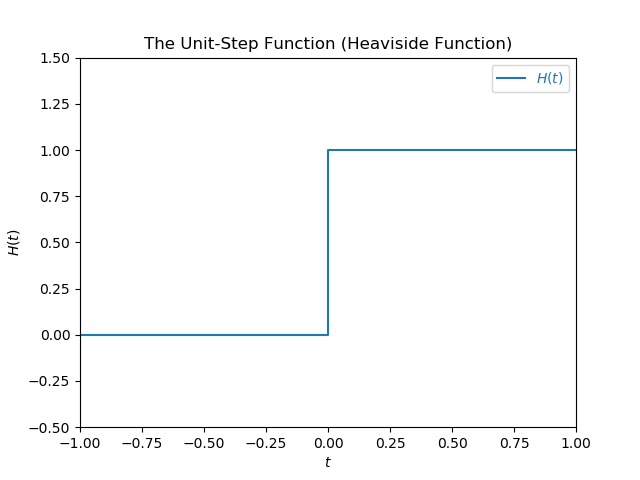
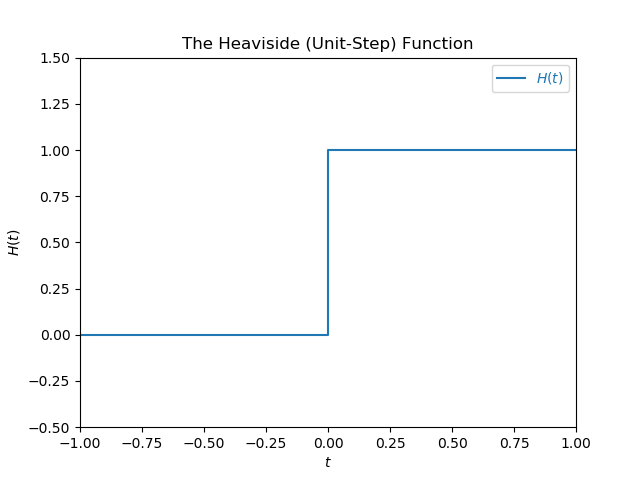
Added complex exponential graphs to the 'Basic Signal Types' page.

Changed region(s): [[0.2188, 0.0625, 0.8125, 0.125]]

diff --git a/content/programming/signal-processing/basic-signal-types/main.py b/content/programming/signal-processing/basic-signal-types/main.py
@@ -5,6 +5,7 @@ import numpy as np
 def main():
     plot_sinusoidal()
     plot_exponential()
+    plot_complex_exponential()
     plot_unit_step()
 
 def plot_sinusoidal():
@@ -80,6 +81,66 @@ def plot_exponential():
     plt.title("Examples of Basic Real Exponential Signals")
     plt.savefig('examples-of-basic-real-exponential-signals.png')
 
+def plot_complex_exponential():
+
+    x_min = 0.0
+    x_max = 10.0
+    y_min = -10.0
+    y_max = 10.0
+
+    x = np.linspace(x_min, x_max, 500)
+
+    sigma = 0.2
+    omega = 2*np.pi
+    theta = 0.0
+    y_growing_real = 1*np.exp(sigma*x)*np.cos(omega*x + theta) 
+    y_growing_env_top = np.exp(sigma*x)
+    y_growing_env_bottom = -np.exp(sigma*x)
+    fig, ax = plt.subplots()
+
+    ax.plot(x, y_growing_real, label="$Re\{f(t)\} = |A|e^{\sigma t} \cos(\omega t + \\theta)$", color='C0')
+    ax.plot(x, y_growing_env_top, color='C0', linestyle='--')
+    ax.plot(x, y_growing_env_bottom, color='C0', linestyle='--')
+    ax.text(2, 2.5, '$|A|e^{\sigma t}$', ha='center', va='center')
+    ax.text(2, -2.5, '$-|A|e^{\sigma t}$', ha='center', va='center')
+    ax.set_xlim([x_min, x_max])
+    ax.set_ylim([y_min, y_max])
+    ax.set_xlabel('$t$')
+    ax.set_ylabel('$Re\{f(t)\}$')
+    leg = ax.legend()
+
+    # Set legend text color to line color
+    for line, text in zip(leg.get_lines(), leg.get_texts()):
+        text.set_color(line.get_color())
+
+    plt.title('The Real Component of a Growing Complex\nExponential Signal ($\sigma > 0$)')
+    plt.savefig('complex-exponential-signals-real-component-growing.png')
+
+    a = 7
+    sigma = sigma*-1
+    y_decaying_real = a*np.exp(sigma*x)*np.cos(omega*x + theta) 
+    y_growing_env_top = a*np.exp(sigma*x)
+    y_growing_env_bottom = -a*np.exp(sigma*x)
+    fig, ax = plt.subplots()
+
+    ax.plot(x, y_decaying_real, label="$Re\{f(t)\} = |A|e^{\sigma t} \cos(\omega t + \\theta)$", color='C0')
+    ax.plot(x, y_growing_env_top, color='C0', linestyle='--')
+    ax.plot(x, y_growing_env_bottom, color='C0', linestyle='--')
+    ax.text(2, 6.5, '$|A|e^{\sigma t}$', ha='center', va='center')
+    ax.text(2, -6.5, '$-|A|e^{\sigma t}$', ha='center', va='center')
+    ax.set_xlim([x_min, x_max])
+    ax.set_ylim([y_min, y_max])
+    ax.set_xlabel('$t$')
+    ax.set_ylabel('$Re\{f(t)\}$')
+    leg = ax.legend()
+
+    # Set legend text color to line color
+    for line, text in zip(leg.get_lines(), leg.get_texts()):
+        text.set_color(line.get_color())
+
+    plt.title('The Real Component of a Decaying Complex\nExponential Signal ($\sigma < 0$)')
+    plt.savefig('complex-exponential-signals-real-component-decaying.png')
+
 def plot_unit_step():
 
     x_min = -1.0
@@ -103,7 +164,7 @@ def plot_unit_step():
     for line, text in zip(leg.get_lines(), leg.get_texts()):
         text.set_color(line.get_color())
 
-    plt.title("The Unit-Step Function (Heaviside Function)")
+    plt.title("The Heaviside (Unit-Step) Function")
     plt.savefig('the-unit-step-function-heaviside.png')
 
     # H(0) = 0

diff --git a/content/programming/signal-processing/basic-signal-types/index.md b/content/programming/signal-processing/basic-signal-types/index.md
@@ -97,6 +97,12 @@ f(t)  &= Ae^{\lambda t} \\
       &= |A|e^{\sigma t} \cos(\omega t + \theta) + i |A|e^{\sigma t} \sin(\omega t + \theta)
 \end{align}</p>
 
+Below are graphs of the real component of both growing and decaying complex exponential signals. **You can see how the signal is enveloped by `\(\pm |A|e^{\sigma t}\)`**. This is because the signal is the product of an exponential component and a `\(\cos()\)` component, and the `\(\cos()\)` component always varies between `\(-1\)` and `\(1\)`.
+
+{{% img src="complex-exponential-signals-real-component-growing" width="700px" caption="The real component of a growing complex exponential signal. In this case \(|A| = 1, \sigma = 0.2, \omega = 2\pi , \theta = 0\)." %}}
+
+{{% img src="complex-exponential-signals-real-component-decaying" width="700px" caption="The real component of a decaying complex exponential signal. In this case \(|A| = 7, \sigma = -0.2, \omega = 2\pi , \theta = 0\)." %}}
+
 ## Heaviside (Unit-Step) Function
 
 The **Heaviside function**, named after [Oliver Heaviside](https://en.wikipedia.org/wiki/Oliver_Heaviside) (also known as the **unit-step function**) can be defined as:
@@ -112,6 +118,8 @@ $$</p>
 The Heaviside function looks something like the signal below, however the point at `\(H(0)\)` can be drawn in different ways (more on that below):
 
 {{% img src="the-unit-step-function-heaviside.png" width="700px" %}}
+
+Oliver Heaviside used his equation to calculate the current in an electrical circuit when it is first switched on {{< ref id="heaviside-wikipedia" >}}.
 
 ### The Different Conventions For H(0)
 
@@ -144,7 +152,7 @@ H(t) =
 \end{cases}
 $$</p>
 
-This is the version of the Heaviside function which seems to be most often used. The [Numpy documentation](https://docs.scipy.org/doc/numpy/reference/generated/numpy.heaviside.html) for `numpy.heaviside` states that `\(H(0) = 0.5\)` is often used. This format of the Heaviside is also closely related to the [signum function](https://en.wikipedia.org/wiki/Sign_function) (the function used to extract the sign of a real number), by the following equation (shifted up by 1 and then halved in magnitude):
+This is the version of the Heaviside function which seems to be most often used. The [Numpy documentation](https://docs.scipy.org/doc/numpy/reference/generated/numpy.heaviside.html) for `numpy.heaviside()` states that `\(H(0) = 0.5\)` is often used. This format of the Heaviside is also closely related to the [signum function](https://en.wikipedia.org/wiki/Sign_function) (the function used to extract the sign of a real number), by the following equation (shifted up by 1 and then halved in magnitude):
 
 <p>$$ H(t) = \frac{1 + sgn (t)}{2} $$</p>
 
@@ -200,4 +208,5 @@ The unit-impulse function is `\(0\)` everywhere except for `\(t = 0\)` where it 
 <ul id="ref-list">
   <li id="ref1"><a href="https://www.quora.com/What-is-the-value-of-the-unit-step-function-at-T-0">https://www.quora.com/What-is-the-value-of-the-unit-step-function-at-T-0</a></li>
   <li id="ref-iso-80000"><a href="https://www.iso.org/standard/31887.html">https://www.iso.org/standard/31887.html</a></li>
+  <li id="heaviside-wikipedia"><a href="https://en.wikipedia.org/wiki/Oliver_Heaviside">https://en.wikipedia.org/wiki/Oliver_Heaviside</a></li>
 </ul>
